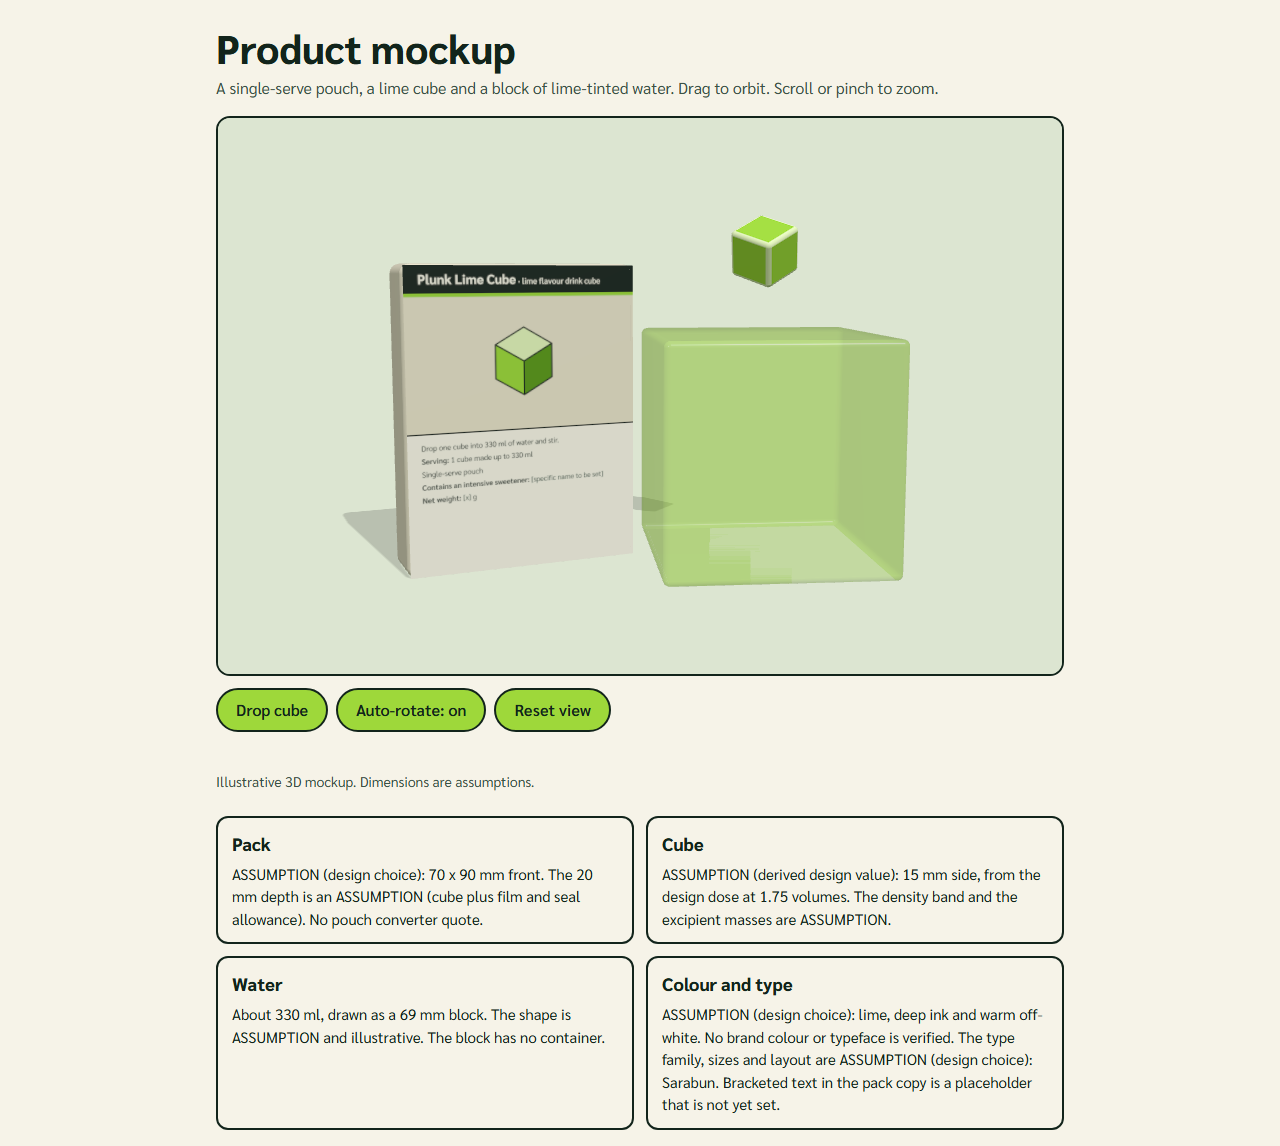
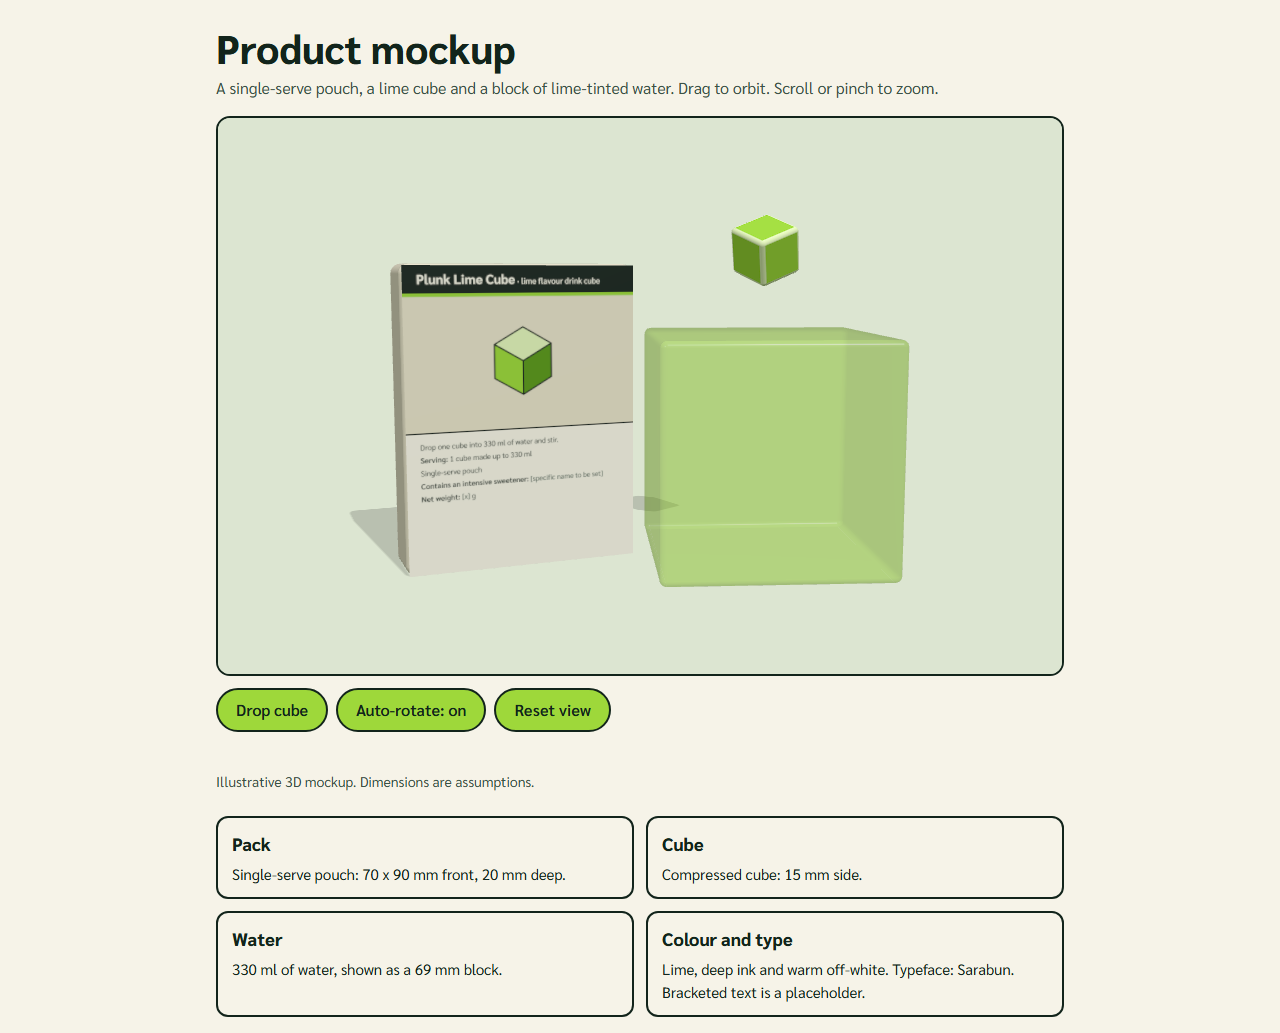
Reorganize the repo to the current state
Add a root README and an index for rework/ that sorts every record as
active, supporting, retired, carried forward, or superseded.

Archive the retired leaf-wrapped mockup assets (scripts, materials record,
label artwork and textures) under rework/archive/leaf_wrapped_mockup. The
cube build does not depend on them. Moves use git mv, so history is kept.

Sync the judge-facing 3D page with the moved reasoning: the spec cards now
show plain facts only, and the reasoning is in the chat record.

Scene defaults are set to a 3840 by 2160 still with a fine micro-texture on
the pouch film. The 4K still has not been rendered yet.

Close the WIPO trademark search as a stated limit in rework/54.

Changed region(s): [[0.1562, 0.4337, 0.8438, 0.9913], [0.25, 0.1859, 0.7188, 0.5576], [0.1562, 0.031, 0.8438, 0.1239]]

diff --git a/rework/judge/cube_3d.html b/rework/judge/cube_3d.html
@@ -142,19 +142,19 @@ button:disabled { opacity: 0.55; cursor: default; }
   <section class="specs" aria-label="Dimensions and assumptions">
     <article class="spec">
       <h2>Pack</h2>
-      <p>ASSUMPTION (design choice): 70 x 90 mm front. The 20 mm depth is an ASSUMPTION (cube plus film and seal allowance). No pouch converter quote.</p>
+      <p>Single-serve pouch: 70 x 90 mm front, 20 mm deep.</p>
     </article>
     <article class="spec">
       <h2>Cube</h2>
-      <p>ASSUMPTION (derived design value): 15 mm side, from the design dose at 1.75 volumes. The density band and the excipient masses are ASSUMPTION.</p>
+      <p>Compressed cube: 15 mm side.</p>
     </article>
     <article class="spec">
       <h2>Water</h2>
-      <p>About 330 ml, drawn as a 69 mm block. The shape is ASSUMPTION and illustrative. The block has no container.</p>
+      <p>330 ml of water, shown as a 69 mm block.</p>
     </article>
     <article class="spec">
       <h2>Colour and type</h2>
-      <p>ASSUMPTION (design choice): lime, deep ink and warm off-white. No brand colour or typeface is verified. The type family, sizes and layout are ASSUMPTION (design choice): Sarabun. Bracketed text in the pack copy is a placeholder that is not yet set.</p>
+      <p>Lime, deep ink and warm off-white. Typeface: Sarabun. Bracketed text is a placeholder.</p>
     </article>
   </section>
 </main>

diff --git a/rework/mockup/cube_3d.html b/rework/mockup/cube_3d.html
@@ -142,19 +142,19 @@ button:disabled { opacity: 0.55; cursor: default; }
   <section class="specs" aria-label="Dimensions and assumptions">
     <article class="spec">
       <h2>Pack</h2>
-      <p>ASSUMPTION (design choice): 70 x 90 mm front. The 20 mm depth is an ASSUMPTION (cube plus film and seal allowance). No pouch converter quote.</p>
+      <p>Single-serve pouch: 70 x 90 mm front, 20 mm deep.</p>
     </article>
     <article class="spec">
       <h2>Cube</h2>
-      <p>ASSUMPTION (derived design value): 15 mm side, from the design dose at 1.75 volumes. The density band and the excipient masses are ASSUMPTION.</p>
+      <p>Compressed cube: 15 mm side.</p>
     </article>
     <article class="spec">
       <h2>Water</h2>
-      <p>About 330 ml, drawn as a 69 mm block. The shape is ASSUMPTION and illustrative. The block has no container.</p>
+      <p>330 ml of water, shown as a 69 mm block.</p>
     </article>
     <article class="spec">
       <h2>Colour and type</h2>
-      <p>ASSUMPTION (design choice): lime, deep ink and warm off-white. No brand colour or typeface is verified. The type family, sizes and layout are ASSUMPTION (design choice): Sarabun. Bracketed text in the pack copy is a placeholder that is not yet set.</p>
+      <p>Lime, deep ink and warm off-white. Typeface: Sarabun. Bracketed text is a placeholder.</p>
     </article>
   </section>
 </main>

diff --git a/rework/mockup/build_cube_scene.py b/rework/mockup/build_cube_scene.py
@@ -90,8 +90,8 @@ def parse_args():
     p.add_argument("--out", required=True, help="output PNG path")
     p.add_argument("--label", default=os.path.join(HERE, "label_front.png"))
     p.add_argument("--tokens", default=os.path.join(HERE, "style_tokens.json"))
-    p.add_argument("--width", type=int, default=1600)
-    p.add_argument("--height", type=int, default=1200)
+    p.add_argument("--width", type=int, default=3840)
+    p.add_argument("--height", type=int, default=2160)
     p.add_argument("--samples", type=int, default=128)
     p.add_argument("--exposure", type=float, default=-1.2,
                    help="view exposure in stops, set so the backdrop matches the background token")
@@ -215,7 +215,17 @@ def build_materials(tok, label_img):
     mats = {}
 
     # PET film: IOR 1.575 (isotropic average at about 589 nm; sourced, see MATERIALS_cube.md).
-    mats["body"] = principled("PackFilm", lin["off-white"], 0.25, {"IOR": 1.575})[0]
+    body_mat, body_bsdf = principled("PackFilm", lin["off-white"], 0.25, {"IOR": 1.575})
+    # Fine micro-texture for a printed laminate (ASSUMPTION: strength and scale, no measured source).
+    film_noise = body_mat.node_tree.nodes.new("ShaderNodeTexNoise")
+    film_noise.inputs["Scale"].default_value = 900.0
+    film_noise.inputs["Detail"].default_value = 2.0
+    film_bump = body_mat.node_tree.nodes.new("ShaderNodeBump")
+    film_bump.inputs["Strength"].default_value = 0.04
+    film_bump.inputs["Distance"].default_value = 0.0003
+    body_mat.node_tree.links.new(film_noise.outputs["Fac"], film_bump.inputs["Height"])
+    body_mat.node_tree.links.new(film_bump.outputs["Normal"], body_bsdf.inputs["Normal"])
+    mats["body"] = body_mat
     mats["seal"] = principled("PackSeal", lin["off-white-deep"], 0.30, {"IOR": 1.575})[0]
 
     label_mat, label_bsdf = principled("PackLabel", (1.0, 1.0, 1.0), 0.35)

diff --git a/rework/README.md b/rework/README.md
@@ -1,0 +1,70 @@
+# rework: index of records
+
+This folder holds the numbered records of the competition work. The current state is as of 18 October 2026. Records are kept even when they are retired. A banner at the top of each retired record says so.
+
+## Current state
+
+| Item | Status | Record |
+|---|---|---|
+| Primary candidate | Sodium-free lime fizz cube, made with potassium bicarbonate and citric acid | [45](45_working_candidate_rework.md), [51](51_final_conclusion_and_recommendation.md), [52](52_pivot_and_retirement.md) |
+| Leaf-wrapped frozen drink | Retired | [06](06_final_conclusion.md), [52](52_pivot_and_retirement.md) |
+| Midlife soy drink | Retired | [40](40_candidate_b_soy_drink.md) |
+| Herb drink (reframed) | Dropped earlier | [03](03_c_reframed.md), [05](05_team_note_c_price_ladder.md) |
+| Frozen pour-over lime cube | Superseded by the primary candidate | [42](42_working_candidate_lime_cube.md) |
+| Gates | Resolved by design or scope; the rest are stated limits or open | [50](50_final_gate_resolution.md) |
+| Unit cost and value chain | Variable cost clears the can; value chain not yet shown | [53](53_unit_cost_and_value_chain.md) |
+| Package | Redesigned with regard to the can; lion emblem is the only restriction | [54](54_package_redesign_vs_singha_can.md) |
+| Trademark and trade dress | Not cleared; WIPO search partial; closed as a stated limit | [54](54_package_redesign_vs_singha_can.md) |
+| 330 ml reference | Not cleared | [54](54_package_redesign_vs_singha_can.md) |
+| Conversion lead | Synthesis only; no respondents | [49](49_conversion_test_synthesis.md) |
+| Submission draft | Pended; nothing submitted | [27](27_submission_draft_pended.md) (retired draft, kept for the record) |
+
+## Reading order
+
+1. [00](00_case_brief_from_screenshot.md): the brief as read from the competition post.
+2. [45](45_working_candidate_rework.md): the primary candidate.
+3. [50](50_final_gate_resolution.md): gate status.
+4. [51](51_final_conclusion_and_recommendation.md): the conclusion and the decisions needed.
+5. [52](52_pivot_and_retirement.md): the pivot, the retirements, and the judge scrub.
+6. [53](53_unit_cost_and_value_chain.md) and [54](54_package_redesign_vs_singha_can.md): unit cost, value chain, and the package.
+
+## Documents by status
+
+**Active (primary candidate and decisions):** 00, 45, 49, 50, 51, 52, 53, 54.
+
+**Supporting (still used):**
+- 01, 02, 04: idea catalogue, desk kill tests, and the price audit.
+- 43, 44: consumer map and literature register.
+- 46, 47: segment decision and the statistical explanation.
+- 48: the team-only style and mockup spec. It names the organiser, so it must not go to judges.
+
+**Carried forward:** 32 (PET migration limits). They apply to the cube's pouch film, which still needs a film and seal specification.
+
+**Retired with candidate A (leaf-wrapped) or B (soy):**
+- 06 (superseded banner).
+- 08 to 13 (pop label, mockups and renders).
+- 15 to 21 and 23 to 26 (leak, thaw, quantum, summer, novelty and leaf-optics work, and the team briefing).
+- 22 (Thai inputs for the leaf thaw screen).
+- 27 (the pended submission draft).
+- 28 to 31 and 33 to 34 (spoilage, pathogens, percolation and taste, and the dye-penetration protocol and run; the physical dye test was cancelled).
+- 40 (soy drink).
+- 41 (packaging survey for A and B; D-P1 carries forward as a pouch principle).
+
+**Superseded:** 42 (frozen pour-over lime cube).
+
+The numbering has gaps (35 to 39) because those numbers were never used.
+
+## Folders
+
+- `judge/`: the four judge-facing files: the hero render, the front and back label, and the 3D page. Nothing else goes here.
+- `mockup/`: the team build for the cube. It holds the build scripts, the style tokens, the label and hero renders, the materials record, and the 3D page.
+- `screen/`: analysis scripts with their results, the browser check, and its screenshots.
+- `raw/`: raw workflow outputs and the literature register extract.
+- `charts/`: chart images used in the records.
+- `archive/leaf_wrapped_mockup/`: the retired leaf-wrapped mockup scripts, materials record, label artwork, and textures. Nothing in `mockup/` depends on them.
+
+## Open items
+
+- The 4K product still is not rendered. The machine did not have the memory headroom for it on 18 October. The scene defaults to 3840 by 2160 but has not yet produced an output.
+- The trademark search is partial and is closed as a stated limit. See [54](54_package_redesign_vs_singha_can.md).
+- The textures in `archive/leaf_wrapped_mockup/textures/` came from earlier downloads whose approval is not on record.

diff --git a/README.md b/README.md
@@ -1,0 +1,27 @@
+# singha-case-study
+
+Team working repository for the Singha Ultimate Challenge 2026 entry, "The Innovative Bev & Bite".
+
+This repository is public on GitHub. Its team records are not written for judges. Only the files in `rework/judge/` are meant for the judges.
+
+## Current state (18 October 2026)
+
+- The primary candidate is the sodium-free lime fizz cube, made with potassium bicarbonate and citric acid. See [rework/45](rework/45_working_candidate_rework.md) and [rework/52](rework/52_pivot_and_retirement.md).
+- The leaf-wrapped frozen drink and the midlife soy drink are retired. Their records are kept, not deleted.
+- The entry decision is open. Registration closes on 22 October 2026 at 23:59. No submission has been made, and the submission text is pended.
+- Trademark and trade dress are not cleared. The 330 ml serving reference is not cleared. See [rework/54](rework/54_package_redesign_vs_singha_can.md).
+
+## Where to start
+
+Read [rework/README.md](rework/README.md). It gives the reading order, the folder guide, and the status of every record.
+
+## Folder guide
+
+- `rework/`: the numbered records and the decisions.
+- `rework/judge/`: the four judge-facing files, and nothing else.
+- `rework/mockup/`: the team build for the cube (scripts, style tokens, label and hero renders, and the 3D page).
+- `rework/screen/`: analysis scripts, their results, and verification output.
+- `rework/raw/`: raw workflow outputs and register extracts.
+- `rework/charts/`: chart images.
+- `rework/archive/`: retired assets kept for the record.
+- `strategy/` and `korea-chart/`: earlier export-study material. These are not part of the competition entry.

diff --git a/rework/54_package_redesign_vs_singha_can.md b/rework/54_package_redesign_vs_singha_can.md
@@ -55,3 +55,7 @@ We read the instruction as: design the package with regard to the can. That mean
 - **The lime can itself was not seen.** The redesign follows the lemon soda can. If the lime can differs, rules R-P1 to R-P3 still hold, but the palette should be checked against it.
 - **Pack form still reads as a box** in the render, because the 20 mm depth and the seal-ridge profile are assumptions ([MATERIALS_cube.md](mockup/MATERIALS_cube.md)).
 - **The palette is a design choice.** It has not been tested with shoppers.
+
+## Closed as a stated limit (18 October 2026)
+
+The trademark search is closed as a stated limit, as the user instructed when the WIPO search could not be completed. The WIPO Global Brand Database search for PLUNK returned 51 results across several offices, with no Thailand filter applied, because the designation-country and Nice class filters returned errors. The Thai DIP public page reached in that pass lists goods and services, not marks, so the Thai mark register was not searched. No registry result clears or blocks the name Plunk Lime Cube. This is a limit on the search, not a finding of freedom to operate.
